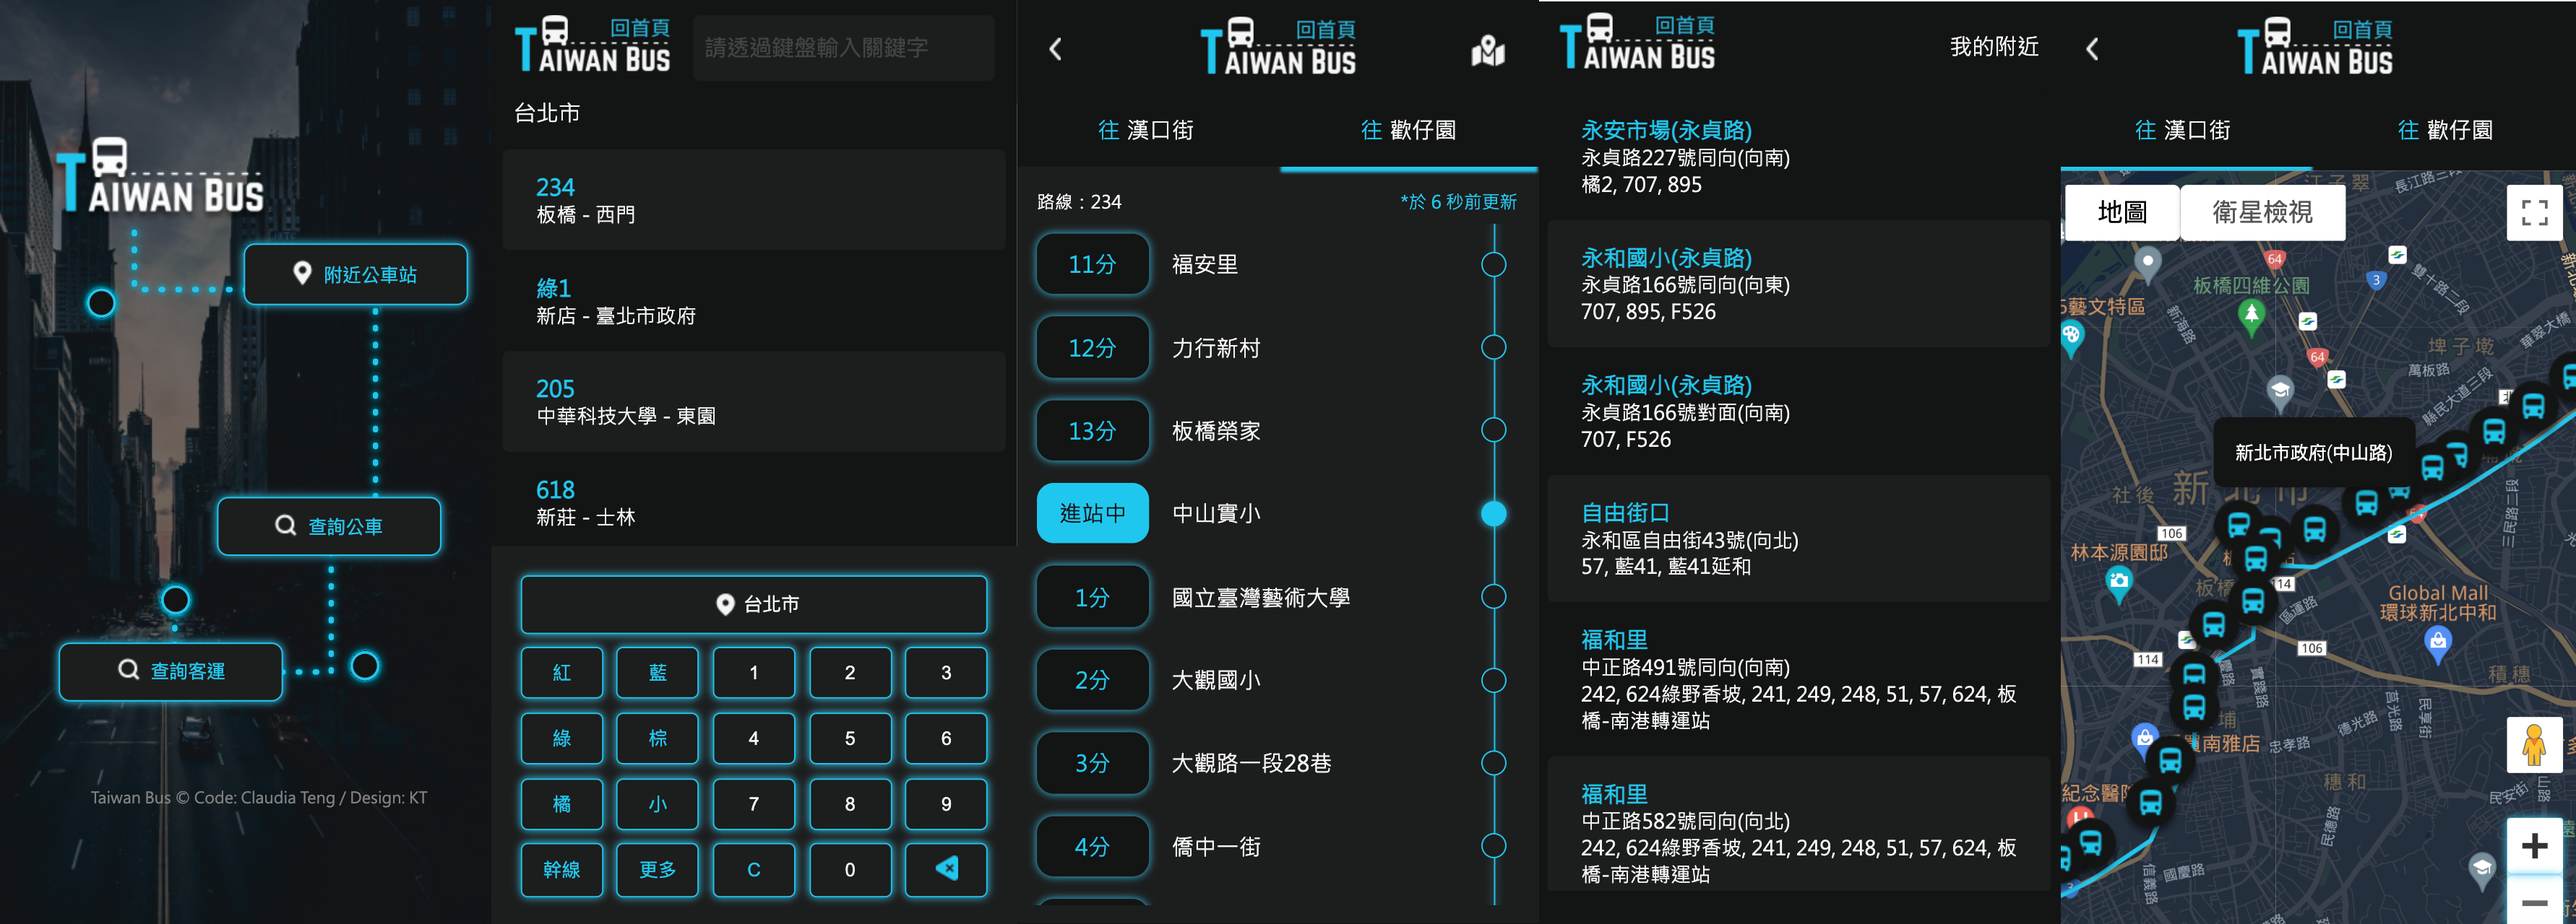
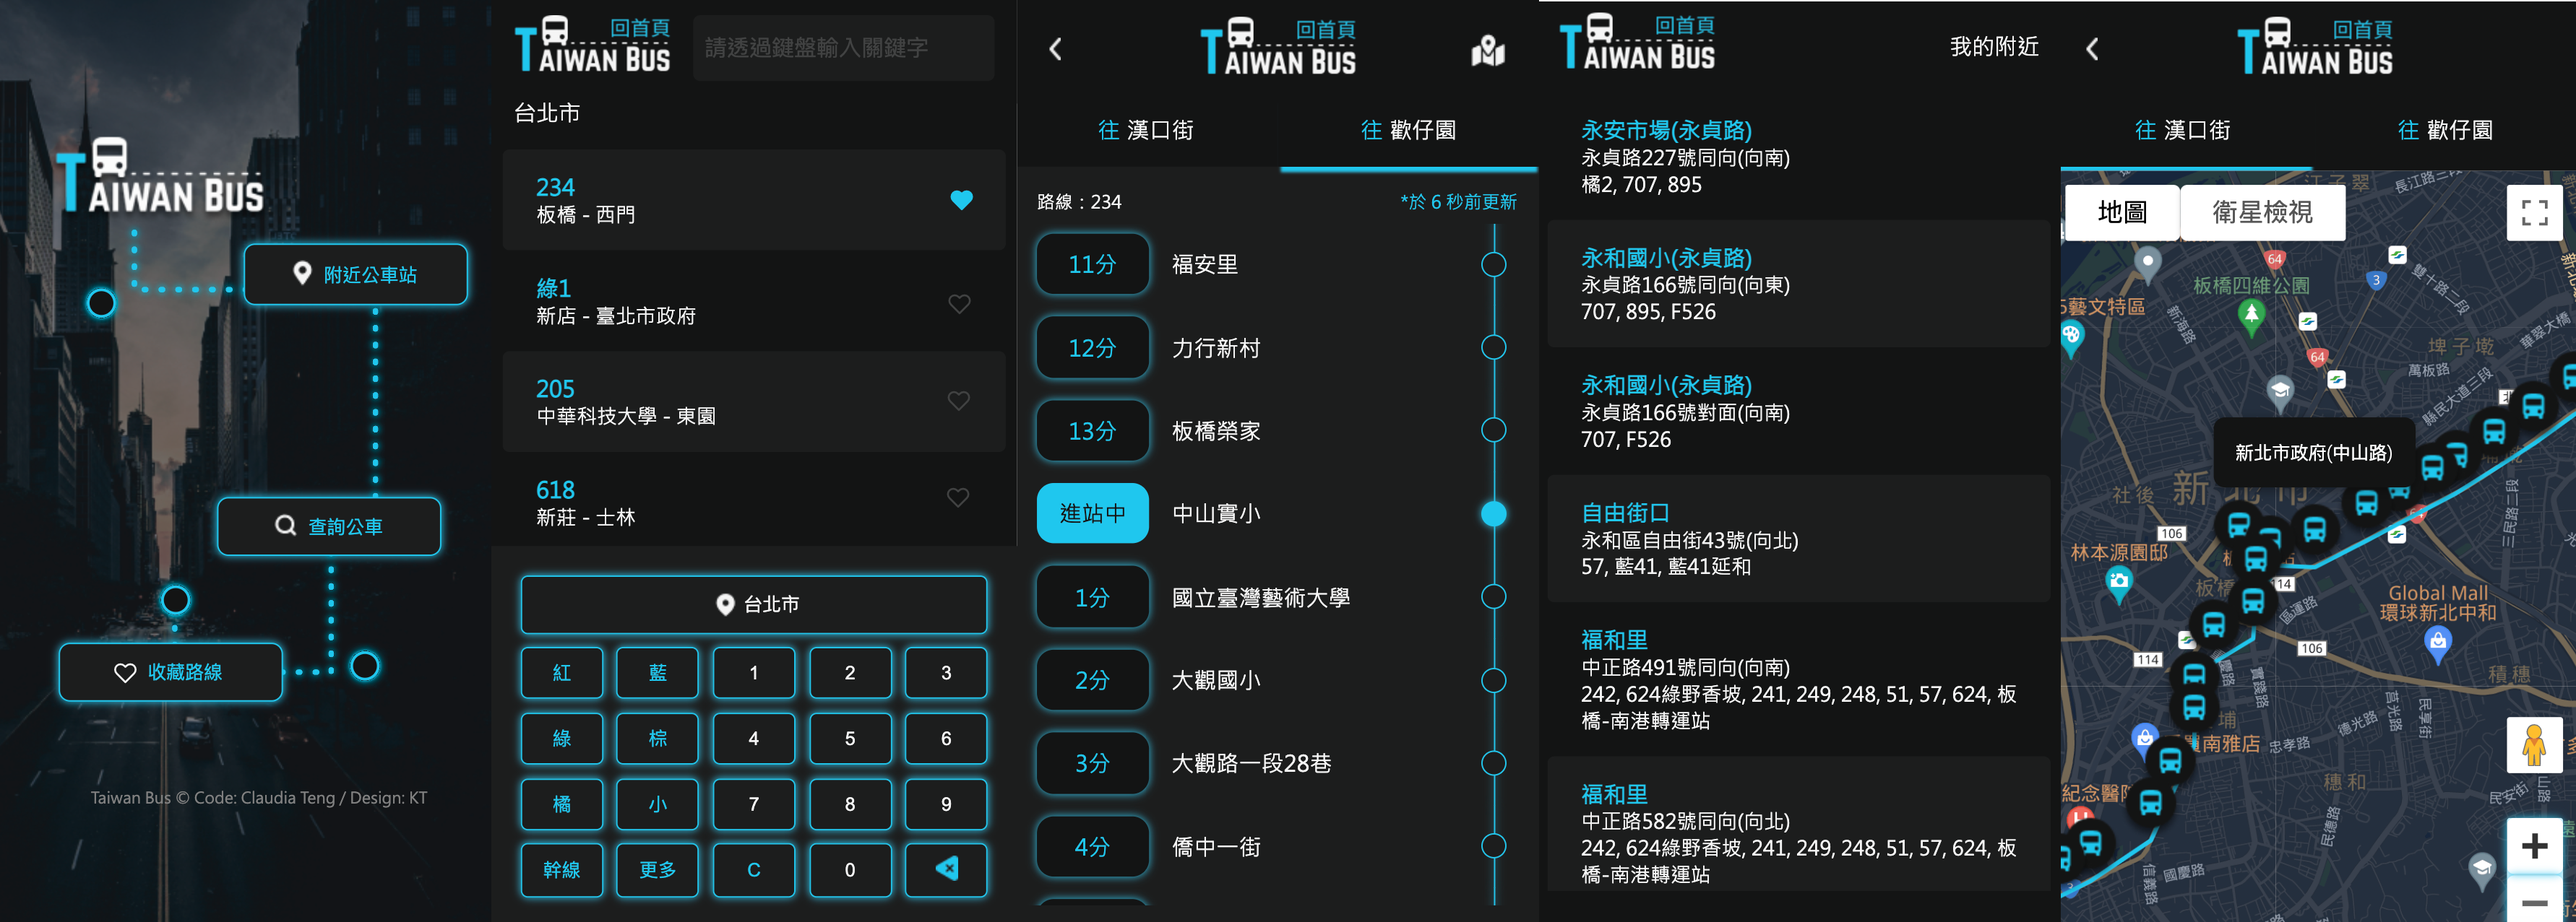
adjust city-bus-route style

diff --git a/src/app/components/my-fav/my-fav.component.ts b/src/app/components/my-fav/my-fav.component.ts
@@ -1,7 +1,6 @@
 import { Component } from '@angular/core';
 import { Router } from '@angular/router';
-import { BusStop, RouteDetail } from 'src/app/model';
-import { NearbyService } from 'src/app/service';
+import { RouteDetail } from 'src/app/model';
 
 @Component({
   selector: 'my-fav',
@@ -13,13 +12,11 @@ export class MyFavComponent {
   public noFavRoutes: boolean = false;
   public favRoutes: Array<RouteDetail>;
 
-  constructor(private router: Router,
-              private nearbyService: NearbyService) {}
+  constructor(private router: Router) {}
 
   ngOnInit() {
     this.favRoutes = JSON.parse(localStorage.getItem('favList')) ?? [];
     if (this.favRoutes.length === 0) this.noFavRoutes = true;
-    console.log('this.favRoutes', this.favRoutes)
   }
 
   public navigateToIndex(): void {
@@ -44,6 +41,4 @@ export class MyFavComponent {
     this.favRoutes.splice(index, 1);
     localStorage.setItem('favList', JSON.stringify(this.favRoutes));
   }
-
-  
 }

diff --git a/src/app/components/city-bus/city-bus-route/city-bus-route.component.sass b/src/app/components/city-bus/city-bus-route/city-bus-route.component.sass
@@ -132,11 +132,15 @@
   .card
     grid-template-columns: 0.5fr 1.5fr 0.4fr 0.005fr 0.2fr
 
+@include breakpoint(padpro)
+  .card
+    grid-template-columns: 0.4fr 2fr 0.3fr 0.005fr 0.15fr
+
 @include breakpoint(pc)
   .content-container > div
     max-width: 1300px
   .card
-    grid-template-columns: 0.3fr 1.7fr 0.2fr 0.005fr 0.2fr
+    grid-template-columns: 0.3fr 1.7fr 0.2fr 0.003fr 0.2fr
   .direction, .topbar > div > img
     cursor: pointer
   

diff --git a/README.md b/README.md
@@ -7,6 +7,7 @@ The F2E 全台公車動態時刻查詢應用服務
 - 搜尋指定公車路線的站序資料、預估時間
 - 搜尋附近站牌及路線資料
 - 地圖模式檢視公車路線站牌位置
+- 收藏常用路線（目前使用local storage）
 - 手機、平板、電腦皆可使用
 
 Data source: [TDX 運輸資料流通服務](https://tdx.transportdata.tw/)
@@ -22,7 +23,7 @@ Design: [KT](https://www.behance.net/KT_Designer)
 
 src/app:
 - auth：利用intercepter處理http request header
-- components：主要分為 index（首頁）, city-bus（公車）, nearby（附近站牌）, intercity-bus（客運、未實作）
+- components：主要分為 index（首頁）, city-bus（公車）, nearby（附近站牌）, my-fav（收藏路線）
 - model：存放所有interface
 - service：存放所有service
 
